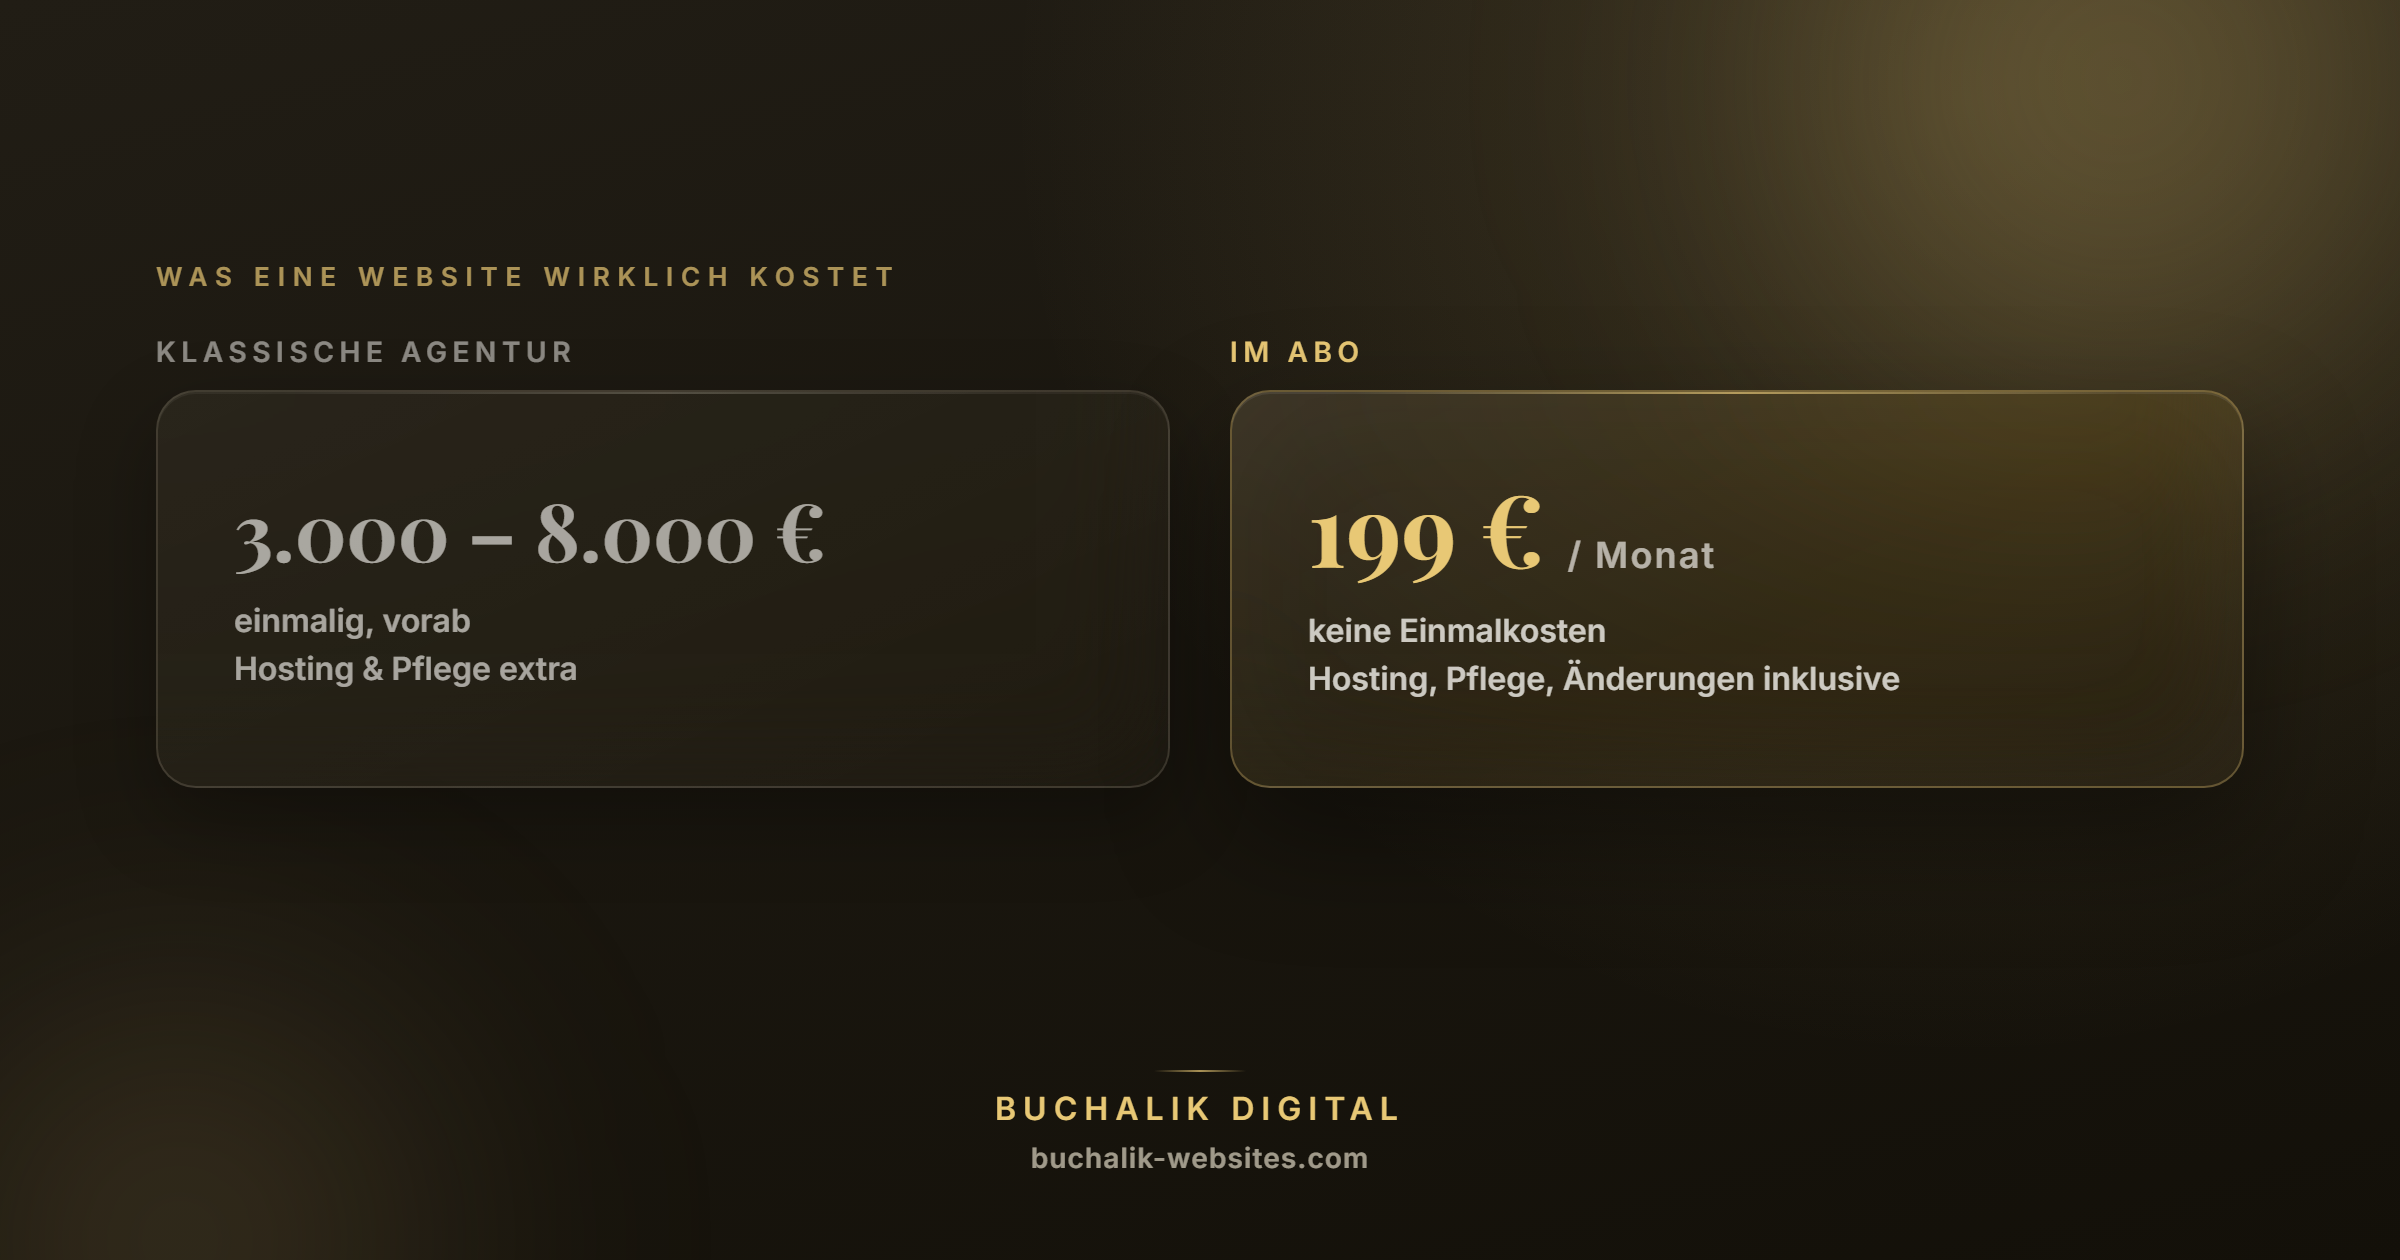
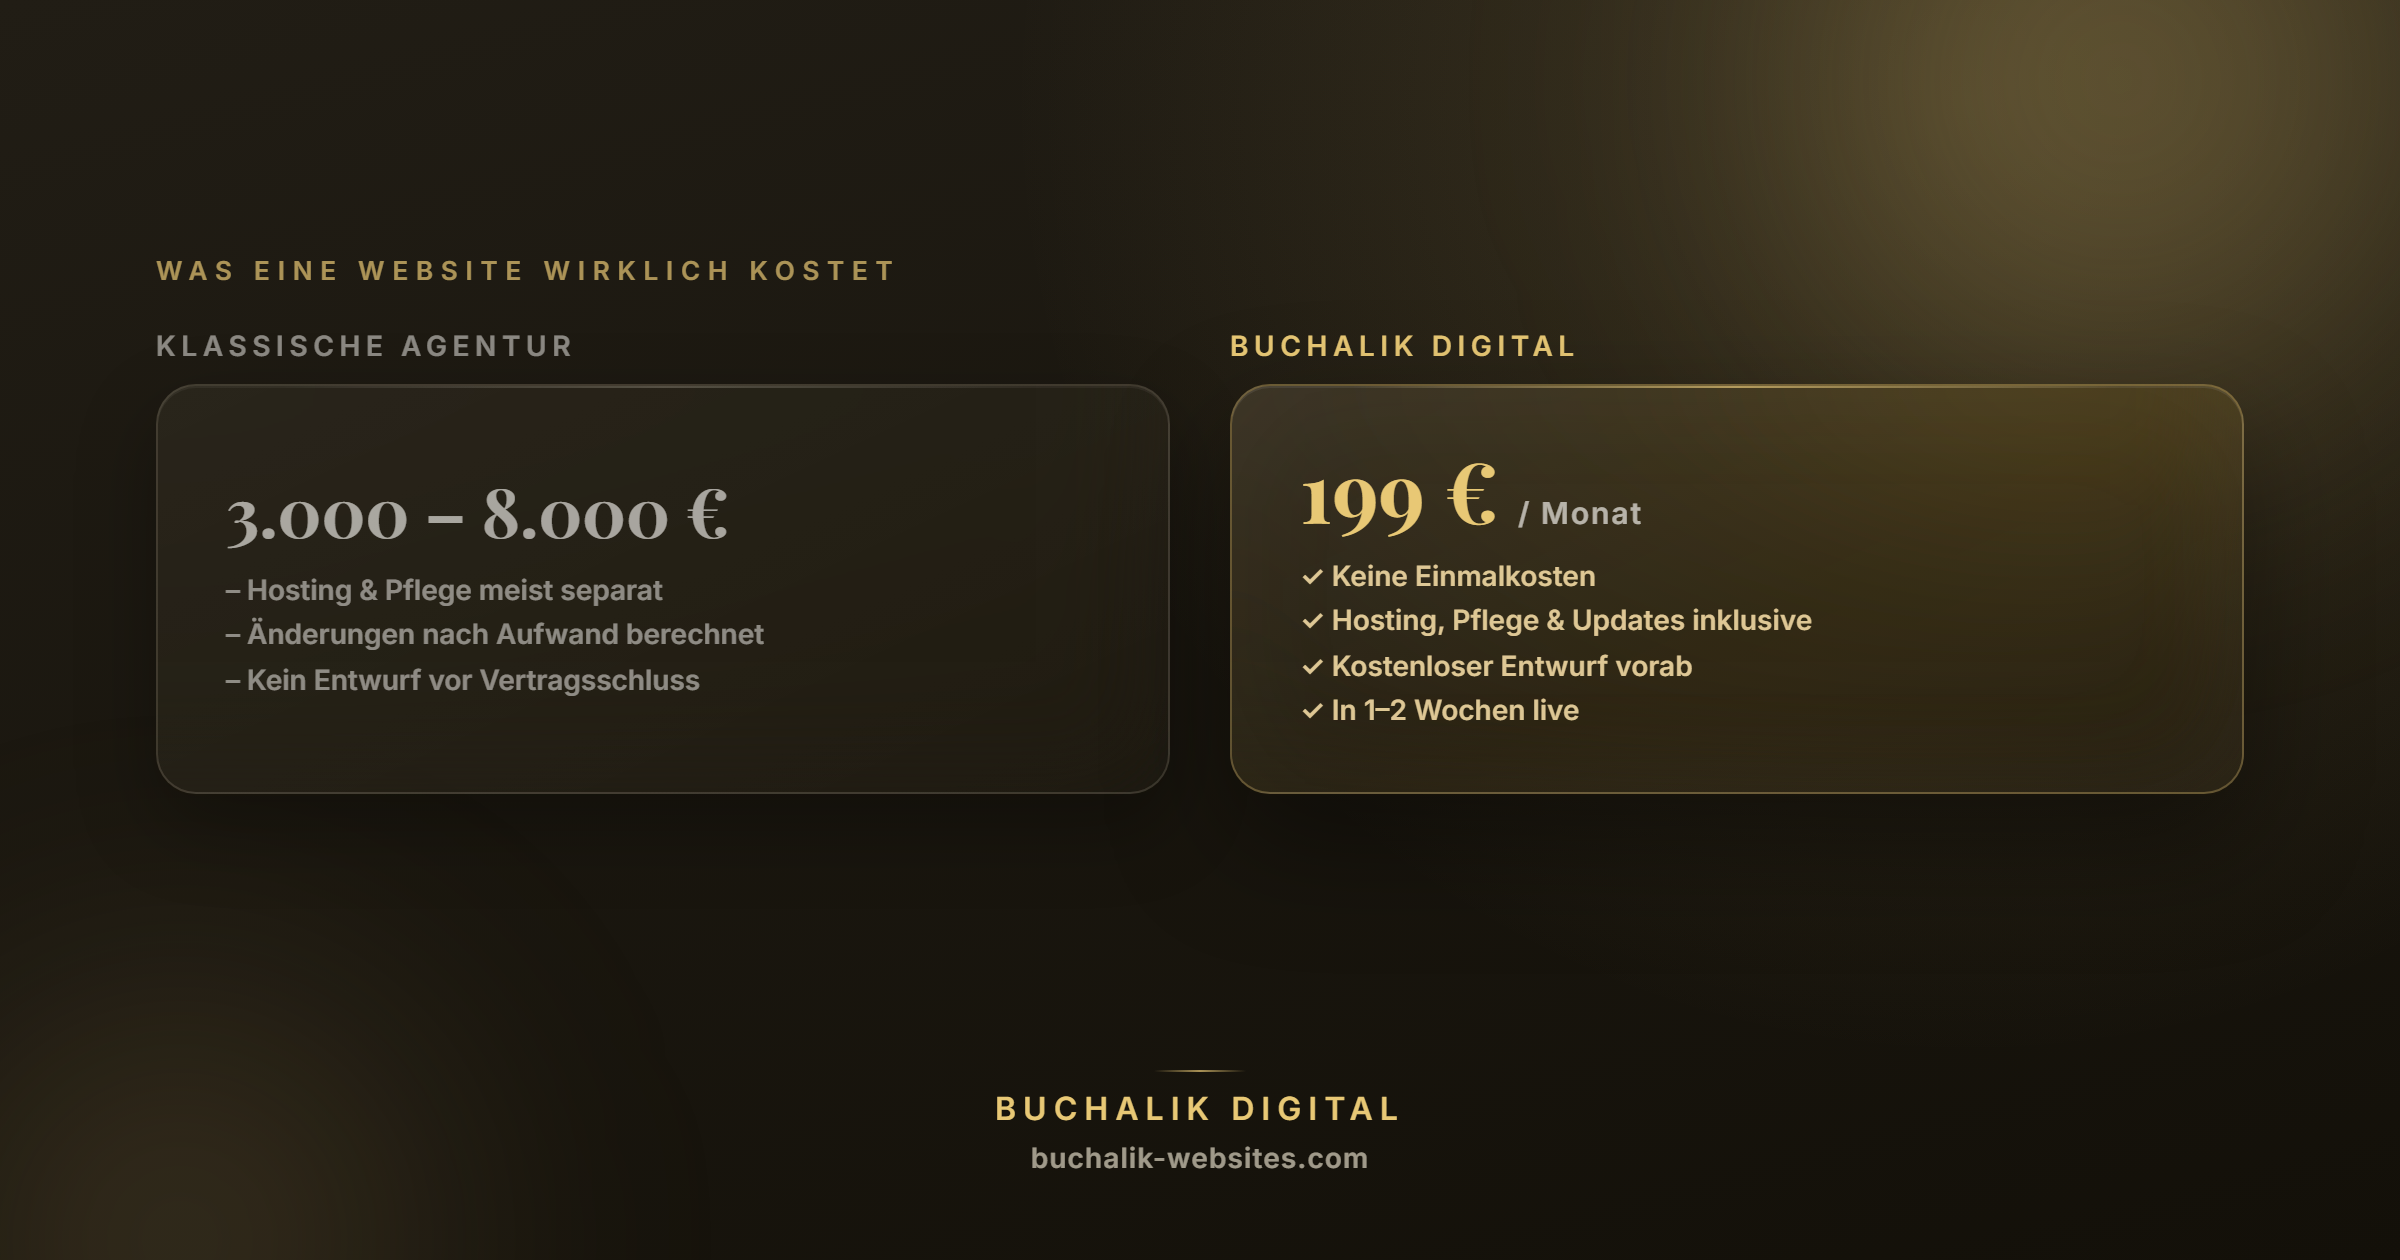
Sharpen the comparison graphic without denigrating the competitor
Right panel is now labelled "Buchalik Digital" and lists four concrete,
already-verified advantages with gold checkmarks; the left panel lists
three neutral, structurally-true characteristics of the one-off pricing
model with a plain dash — no negative colour coding or icons, since that
would tip into denigrating comparative advertising under UWG §6(2)5.
The asymmetry (4 warm items vs. 3 quiet ones) carries the framing
honestly instead.

diff --git a/templates/vergleich/ig.html b/templates/vergleich/ig.html
@@ -31,11 +31,11 @@
 }
 .row-label.gold { color: #E8C875; }
 
-/* Price and details sit side by side so the panel reads as one line of
-   information rather than a left-hugging block in a wide empty box. */
+/* Price sits above a short list — full width, so each panel can carry a
+   different number of lines (the two sides aren't symmetric on purpose). */
 .glass-panel {
-  border-radius: 24px; padding: 58px 50px;
-  display: flex; align-items: center; justify-content: space-between; gap: 44px;
+  border-radius: 24px; padding: 46px 50px;
+  display: flex; flex-direction: column; gap: 18px;
 }
 
 /* The agency panel stays deliberately quiet: no gold glow, dimmer border. */
@@ -52,20 +52,22 @@
   line-height: 1.05;
   font-variant-numeric: tabular-nums;
 }
-.glass-panel.muted .price { font-size: 58px; color: rgba(250,248,243,0.62); }
-.glass-panel.accent .price { font-size: 76px; color: #E8C875; }
+.glass-panel.muted .price { font-size: 50px; color: rgba(250,248,243,0.62); }
+.glass-panel.accent .price { font-size: 62px; color: #E8C875; }
 .price .per {
   font-family: 'Inter', sans-serif; font-weight: 600;
   font-size: 0.32em; letter-spacing: 0.06em;
   color: rgba(250,248,243,0.66);
 }
 
+/* Muted list stays quiet — a plain dash, no colour coding as "bad". */
 .meta {
-  margin: 0; text-align: right;
-  font: 400 21px/1.55 'Inter', sans-serif;
-  color: rgba(250,248,243,0.62);
+  margin: 0;
+  font: 400 19px/1.85 'Inter', sans-serif;
+  color: rgba(250,248,243,0.5);
 }
-.glass-panel.accent .meta { color: rgba(250,248,243,0.78); }
+/* Accent list gets the warmer read: gold-tinted, not just brighter white. */
+.glass-panel.accent .meta { color: rgba(238,214,161,0.92); }
 
 .footer-mark { left: 0; right: 0; bottom: 68px; }
 </style>

diff --git a/templates/vergleich/fb.html b/templates/vergleich/fb.html
@@ -35,8 +35,8 @@
 .row-label.gold { color: #E8C875; }
 
 .glass-panel {
-  flex: 1; border-radius: 20px; padding: 42px 38px;
-  display: flex; flex-direction: column; justify-content: center;
+  flex: 1; border-radius: 20px; padding: 30px 34px;
+  display: flex; flex-direction: column; justify-content: center; gap: 10px;
 }
 
 .glass-panel.muted {
@@ -47,25 +47,27 @@
 .glass-panel.muted::before { background: linear-gradient(90deg, transparent, rgba(245,237,216,0.18), transparent); }
 
 .price {
-  margin: 0 0 12px;
+  margin: 0;
   font-family: 'Playfair Display', serif; font-weight: 700;
   line-height: 1.05;
   font-variant-numeric: tabular-nums;
 }
-.glass-panel.muted .price { font-size: 40px; color: rgba(250,248,243,0.62); }
-.glass-panel.accent .price { font-size: 50px; color: #E8C875; }
+.glass-panel.muted .price { font-size: 34px; color: rgba(250,248,243,0.62); }
+.glass-panel.accent .price { font-size: 42px; color: #E8C875; }
 .price .per {
   font-family: 'Inter', sans-serif; font-weight: 600;
   font-size: 0.36em; letter-spacing: 0.06em;
   color: rgba(250,248,243,0.66);
 }
 
+/* Muted list stays quiet — a plain dash, no colour coding as "bad". */
 .meta {
   margin: 0;
-  font: 400 16px/1.5 'Inter', sans-serif;
-  color: rgba(250,248,243,0.62);
+  font: 400 14px/1.6 'Inter', sans-serif;
+  color: rgba(250,248,243,0.5);
 }
-.glass-panel.accent .meta { color: rgba(250,248,243,0.78); }
+/* Accent list gets the warmer read: gold-tinted, not just brighter white. */
+.glass-panel.accent .meta { color: rgba(238,214,161,0.92); }
 
 .footer-mark { left: 0; right: 0; bottom: 44px; }
 .footer-mark .wordmark { font-size: 16px; letter-spacing: 0.22em; }
